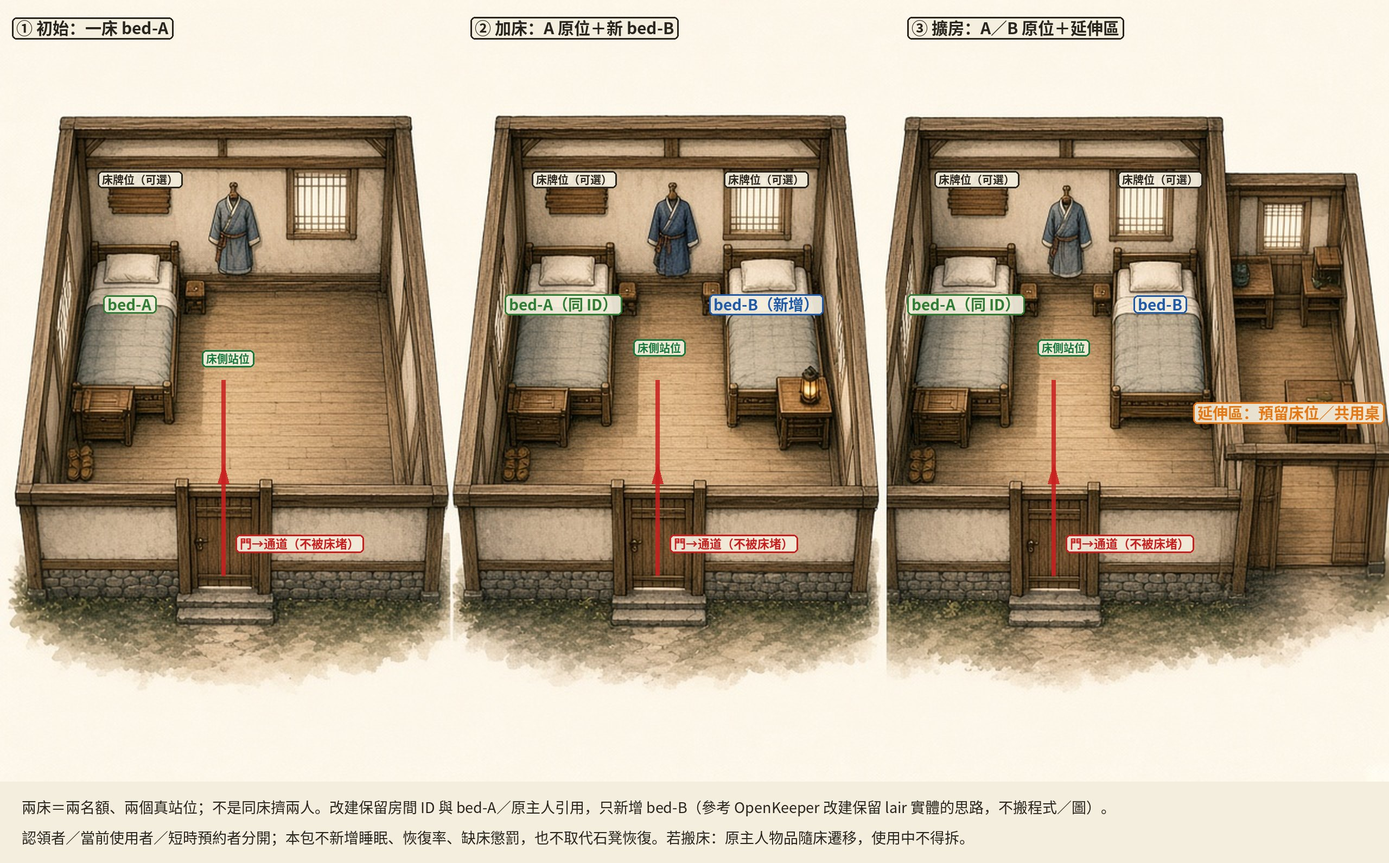
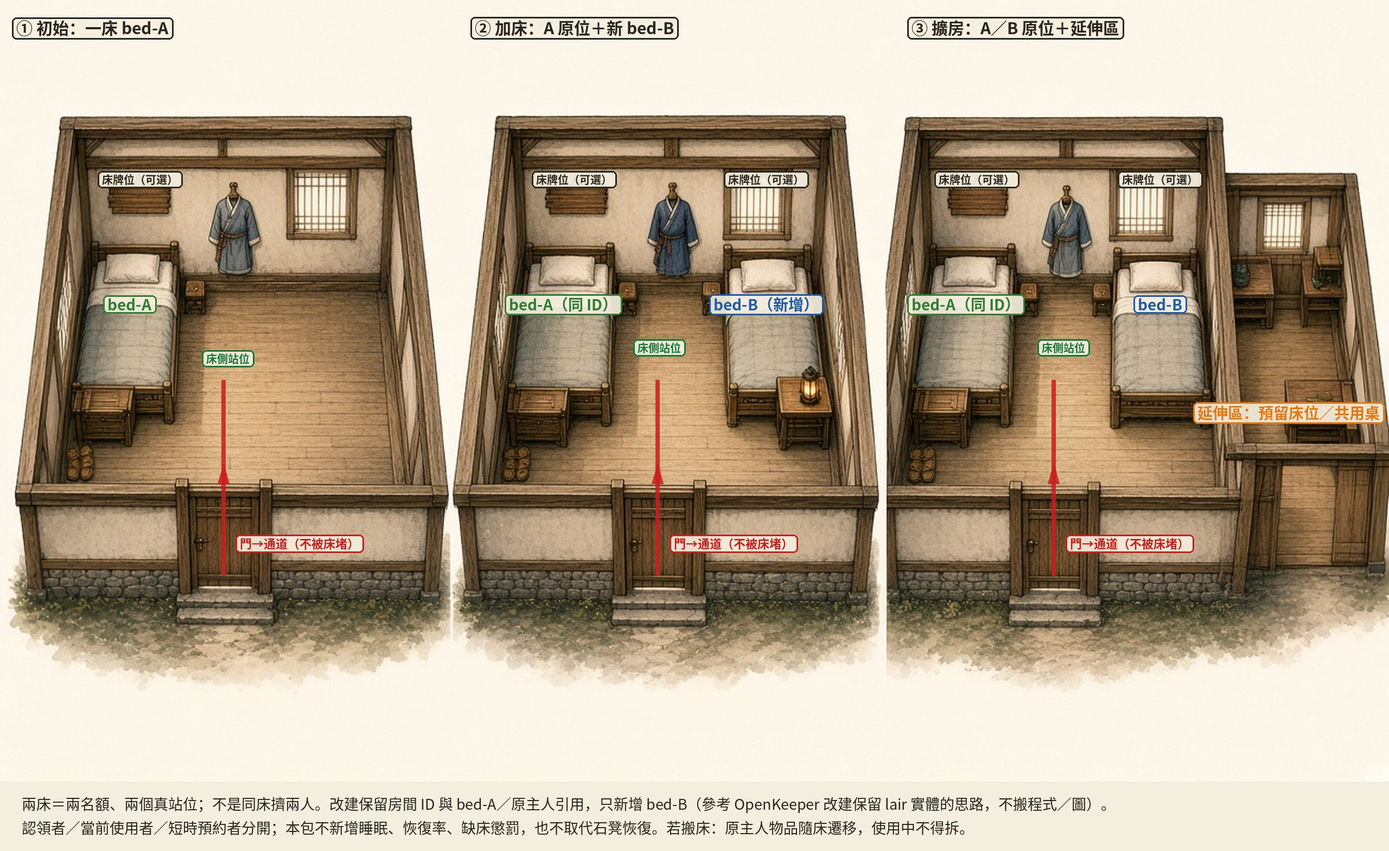
design(scene02): content-sized annotation canvases (A2 legend, B2 margins, C/D wrapping)
Refs #182

diff --git a/sect-chronicle/experiments/water-carry/design/art182-scene02/source/annotate.py b/sect-chronicle/experiments/water-carry/design/art182-scene02/source/annotate.py
@@ -39,16 +39,32 @@ def arrow(d, pts, col, w=8, head=26):
         d.polygon([(mx + head * math.cos(a), my + head * math.sin(a)), (mx + head * .6 * math.cos(a + 2.4), my + head * .6 * math.sin(a + 2.4)),
                    (mx + head * .6 * math.cos(a - 2.4), my + head * .6 * math.sin(a - 2.4))], fill=col)
 
-def legend_panel(h, title, rows, w=1000):
-    p = Image.new('RGB', (w, h), PAPER); d = ImageDraw.Draw(p)
-    d.text((40, 36), title, font=F(44, True), fill=INK)
-    y = 110
+def wrap(text, font, width):
+    """依實際字寬換行（CJK 逐字），回傳行列表。"""
+    out, cur = [], ''
+    for ch in text:
+        if font.getlength(cur + ch) > width and cur:
+            out.append(cur); cur = ch
+        else:
+            cur += ch
+    return out + [cur] if cur else out
+
+def legend_panel(min_h, title, rows, w=1000):
+    """依內容算高度，不再固定裁切；回傳面板（高度≥min_h）。"""
+    f, fb = F(25), F(28, True); items = []; y = 110
     for r in rows:
         if r[0] == '#':
-            d.text((40, y), r[1], font=F(28, True), fill=INK); y += 46; continue
-        n, st, txt = r
-        col = ST[st]; d.ellipse((40, y, 84, y + 44), fill=col); d.text((62, y + 22), str(n), font=F(24, True), fill='white', anchor='mm')
-        d.text((100, y + 22), f'［{st}］{txt}', font=F(25), fill=INK, anchor='lm'); y += 54
+            ls = wrap(r[1], fb, w - 80); items.append(('h', y, ls)); y += 40 * len(ls) + 10; continue
+        n, st, txt = r; ls = wrap(f'［{st}］{txt}', f, w - 140); items.append(('r', y, (n, st, ls))); y += max(54, 36 * len(ls) + 18)
+    p = Image.new('RGB', (w, max(min_h, y + 40)), PAPER); d = ImageDraw.Draw(p)
+    d.text((40, 36), title, font=F(44, True), fill=INK)
+    for k, y, v in items:
+        if k == 'h':
+            for i, t in enumerate(v): d.text((40, y + i * 40), t, font=fb, fill=INK)
+            continue
+        n, st, ls = v; col = ST[st]
+        d.ellipse((40, y, 84, y + 44), fill=col); d.text((62, y + 22), str(n), font=F(24, True), fill='white', anchor='mm')
+        for i, t in enumerate(ls): d.text((100, y + 22 + i * 36), t, font=f, fill=INK, anchor='lm')
     return p
 
 # ---------- A 主景 ----------
@@ -79,7 +95,7 @@ for n, x, y, st, _ in MARK:
     d.text((X, Y), str(n), font=F(26, True), fill='white', anchor='mm')
 rows = [('#', '狀態：綠 現有／藍 已批待做／橘 候選預留／灰 純景觀／紫 更後')] + [(n, st, t) for n, _, _, st, t in MARK]
 lp = legend_panel(lay.height, 'A2 總配置（現有／已批／候選／景觀）', rows, 1150)
-A2 = Image.new('RGB', (lay.width + lp.width, lay.height), PAPER); A2.paste(lay, (0, 0)); A2.paste(lp, (lay.width, 0))
+A2 = Image.new('RGB', (lay.width + lp.width, max(lay.height, lp.height)), PAPER); A2.paste(lay, (0, 0)); A2.paste(lp, (lay.width, 0))
 A2.save(OUT / 'A2-layout-annotated.jpg', quality=86)
 
 # ---------- B 水系 ----------
@@ -118,9 +134,9 @@ if geo_p and geo_p.exists():
 else:
     base = Image.new('RGB', (3200, 2700), (200, 196, 170))
 K = base.width / 1600
-pad = 260
-cv = Image.new('RGB', (base.width + 2 * pad, base.height + 2 * pad), (225, 219, 200)); cv.paste(base, (pad, pad))
-d = ImageDraw.Draw(cv, 'RGBA'); P = lambda x, y: (pad + x * K, pad + y * K)
+pad, padR = 820, 1180  # 依框外標籤實際寬度留白（左：西林；右：山門／廚房）
+cv = Image.new('RGB', (base.width + pad + padR, base.height + 2 * 260 + 140), (225, 219, 200)); cv.paste(base, (pad, 260))
+d = ImageDraw.Draw(cv, 'RGBA'); P = lambda x, y: (pad + x * K, 260 + y * K)
 d.rectangle((*P(0, 0), *P(1600, 1350)), outline=(200, 30, 30), width=8)
 tag(d, *P(10, -50), '目前 runtime 世界 1600×1350（權威，不改）', (200, 30, 30), 34)
 for k, col in [('water', (20, 90, 200)), ('herb', (46, 125, 50)), ('guard', (120, 60, 20)), ('boar', (90, 50, 30))]:
@@ -163,18 +179,24 @@ for x, y in [(420, 660), (1215, 640), (1960, 640)]:
     tag(d, x, y, '床側站位', (20, 120, 60), 20, 'mm')
 note = ['兩床＝兩名額、兩個真站位；不是同床擠兩人。改建保留房間 ID 與 bed-A／原主人引用，只新增 bed-B（參考 OpenKeeper 改建保留 lair 實體的思路，不搬程式／圖）。',
         '認領者／當前使用者／短時預約者分開；本包不新增睡眠、恢復率、缺床懲罰，也不取代石凳恢復。若搬床：原主人物品隨床遷移，使用中不得拆。']
-bar = Image.new('RGB', (dm.width, 150), PAPER); bd = ImageDraw.Draw(bar)
-for i, t in enumerate(note): bd.text((40, 26 + i * 56), t, font=F(27), fill=INK)
-C1 = Image.new('RGB', (dm.width, dm.height + 150), PAPER); C1.paste(dm, (0, 0)); C1.paste(bar, (0, dm.height)); C1.save(OUT / 'C1-dorm-three-stages.jpg', quality=86)
+lines = [l for t in note for l in wrap(t, F(27), dm.width - 80)]; bh = 40 + 44 * len(lines)
+bar = Image.new('RGB', (dm.width, bh), PAPER); bd = ImageDraw.Draw(bar)
+for i, t in enumerate(lines): bd.text((40, 20 + i * 44), t, font=F(27), fill=INK)
+C1 = Image.new('RGB', (dm.width, dm.height + bh), PAPER); C1.paste(dm, (0, 0)); C1.paste(bar, (0, dm.height)); C1.save(OUT / 'C1-dorm-three-stages.jpg', quality=86)
 
 # ---------- D 分鏡 ----------
 SB = {'sb-water.jpg': ('D1 長路挑水', ['出院門、空桶下坡入竹林（腳在路上）', '過溪橋：在橋板上，前欄擋腿，不入水', '潭東石階：彎身取水，桶到水面、腳不濕']),
       'sb-patrol.jpg': ('D2 巡山進退（#290 已批，畫稿示意）', ['S0：竹護欄端點出巡、路標', '竹坡／石坳：先看見野豬與林鼠再應對', '同路回院才算完成（真回程）']),
       'sb-dorm.jpg': ('D3 院落入房（宿舍候選）', ['夜間穿院、經水缸往側屋宿舍；屋簷不吞人物', '門口台階推門，燈光', '房內雙床、走道通暢，站在自己床側（bed-A）'])}
 for f, (title, caps) in SB.items():
-    im = up(f); bar = Image.new('RGB', (im.width, 130), PAPER); bd = ImageDraw.Draw(bar)
-    bd.text((30, 14), title + '（畫稿／示意，不是可玩版本）', font=F(32, True), fill=INK)
-    for i, c in enumerate(caps): bd.text((30 + i * im.width // 3, 72), f'{i + 1}. {c}', font=F(25), fill=INK)
-    o = Image.new('RGB', (im.width, im.height + 130), PAPER); o.paste(im, (0, 0)); o.paste(bar, (0, im.height))
+    im = up(f); cw = im.width // 3 - 60
+    tl = wrap(title + '（畫稿／示意，不是可玩版本）', F(32, True), im.width - 60)
+    cl = [wrap(f'{i + 1}. {c}', F(25), cw) for i, c in enumerate(caps)]
+    bh = 24 + 44 * len(tl) + 36 * max(map(len, cl)) + 20
+    bar = Image.new('RGB', (im.width, bh), PAPER); bd = ImageDraw.Draw(bar)
+    for j, t in enumerate(tl): bd.text((30, 14 + j * 44), t, font=F(32, True), fill=INK)
+    for i, ls in enumerate(cl):
+        for j, t in enumerate(ls): bd.text((30 + i * im.width // 3, 24 + 44 * len(tl) + j * 36), t, font=F(25), fill=INK)
+    o = Image.new('RGB', (im.width, im.height + bh), PAPER); o.paste(im, (0, 0)); o.paste(bar, (0, im.height))
     o.save(OUT / f"{title.split()[0]}-{f.replace('.jpg', '')}.jpg", quality=84)
 print('ok', sorted(p.name for p in OUT.iterdir()))

diff --git a/sect-chronicle/experiments/water-carry/design/art182-scene02/README.md b/sect-chronicle/experiments/water-carry/design/art182-scene02/README.md
@@ -72,6 +72,7 @@
 ## 已知缺陷／缺口（自校）
 
 - 已修（v2，2026-10-24）：取水潭改為主溪橋下游擴成、潭出水下緣出圖；泉口三圖同位；上游兩座小便橋以局部修圖移除；宿舍改灰瓦木構白灰牆；D1–D3 重繪為同一主角服裝。
+- 已修（review 5636494676 P2）：標註畫布改依內容配置——A2 圖例依項數加高（27 項完整）、B2 左右留白容納框外標籤、C／D 說明與 caption 依字寬換行並加高說明列。
 - 廚房、菜圃、倉儲在主稿只有落位標記，未畫獨立建物。
 - D1 第 3 格水流方向畫成潭出水小瀑，非「入潭」；D2 第 2 格野豬洞只是氣氛，不代表已批巢穴／生成點；分鏡無師兄角色，師兄服裝未定。
 - 主稿移除便橋處是局部複製修補，放大可見輕微紋理重複；原便橋處小路在溪岸止步。
